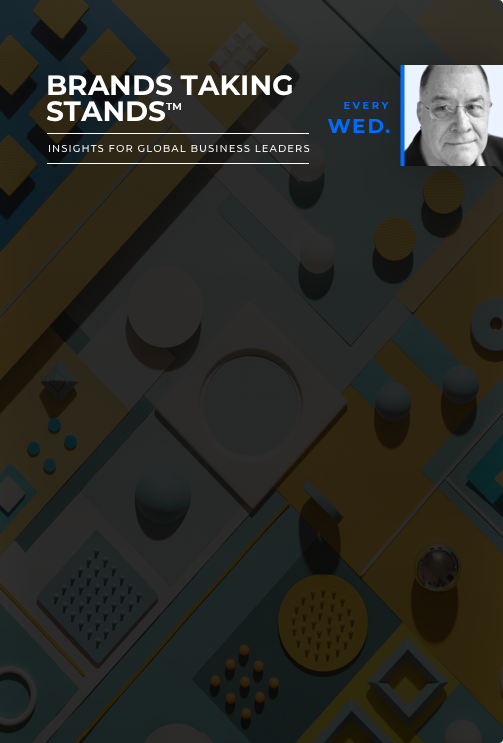
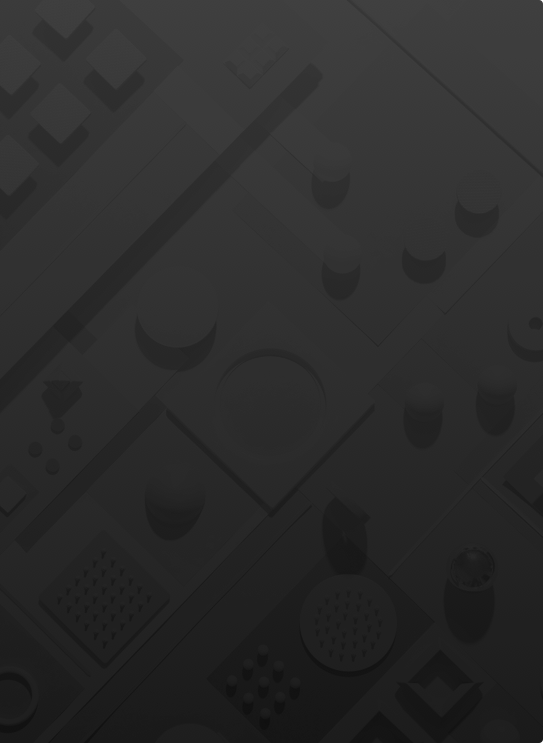
TP-239 Makes BTS card on homepage have headshot and author line from API

diff --git a/src/components/BTS/HomeBTS.js b/src/components/BTS/HomeBTS.js
@@ -24,6 +24,15 @@ const currentBTS = gql`
           date: fieldBtsDate {
             value
           }
+          headshot: fieldBtsHeadshot {
+            width
+            url
+            height
+            targetId
+            alt
+            title
+          }
+          author: fieldBtsByline
         }
       }
     }
@@ -46,13 +55,21 @@ const HomeBTS = () =>
 
     return (
         <div className={styles.wrapper} style={homeBTSStyle}>
+          <div className={styles.headerWrapper}>
+            <div className={styles.headerBranding}>
+              <h2 className={styles.headerTitle}>Brands Taking Stands<span className={styles.titleTrademark}>&trade;</span></h2>
+              <h4 className={styles.headerSubtitle}>Insights for Global Business Leaders</h4>
+            </div>
+            <p className={styles.headerFrequency}>Every <span className={styles.frequencyDate}>Wed.</span></p>
+            <img src={bts.headshot.url} className={styles.headerHeadshot} alt={bts.headshot.alt} />
+          </div>
           <div className={styles.contentWrapper}>
             <div className={styles.dateWrapper}>
             <h4>Weekly Newsletter</h4>
             <Moment className={styles.date} format={'MMM DD'}>{bts.date.value}</Moment>
             </div>
             <h3 className={styles.title}>{bts.title}</h3>
-            <p className={styles.author}>Words by John Howell</p>
+            <p className={styles.author}>{bts.author}</p>
           </div>
           <a href={'http://www.3blforum.com/brands-taking-stands-newsletter/newsletter-sign-up'} className={styles.button} target={'_blank'}>Subscribe</a>
         </div>

diff --git a/src/components/BTS/HomeBTS.module.scss b/src/components/BTS/HomeBTS.module.scss
@@ -1,12 +1,68 @@
+$tp_primary: #006BFF;
+
 .wrapper {
   display: grid;
   grid-template-rows: 200px 1fr 50px;
   background-size: cover;
 }
 
+.headerWrapper {
+  display: grid;
+  grid-template-columns: 1fr min-content min-content;
+  grid-gap: 6px;
+  padding: 25px 0 25px 25px;
+  align-items: center;
+
+  .headerBranding {
+    color: white;
+    display: flex;
+    flex-direction: column;
+    align-items: flex-start;
+
+    .headerTitle {
+      text-transform: uppercase;
+      font-size: 26px;
+      text-align: left;
+      margin: 0;
+
+      .titleTrademark {
+        font-size: 55%;
+        line-height: 1;
+        vertical-align: top;
+        font-weight: 600;
+      }
+    }
+
+    .headerSubtitle {
+      border-top: 1px solid white;
+      border-bottom: 1px solid white;
+      padding: 7px 0;
+      text-transform: uppercase;
+      align-self: left;
+    }
+  }
+
+  .headerFrequency {
+    color: $tp_primary;
+    text-transform: uppercase;
+    text-align: right;
+    font-weight: bold;
+    font-size: 8px;
+
+    .frequencyDate {
+      font-size: 20px;
+    }
+  }
+
+  .headerHeadshot {
+    max-width: 100px;
+    border-left: 3px solid $tp_primary;
+  }
+}
+
 .contentWrapper {
   grid-area: 2/1/3/2;
-  color: #006BFF;
+  color: $tp_primary;
   text-align: left;
   margin: 0 30px;
   filter: none;
